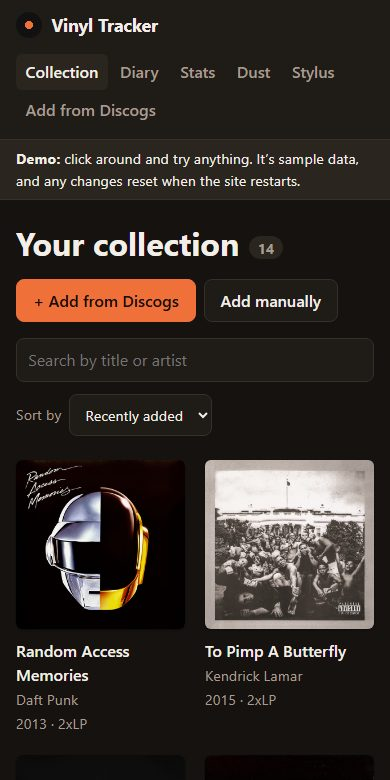
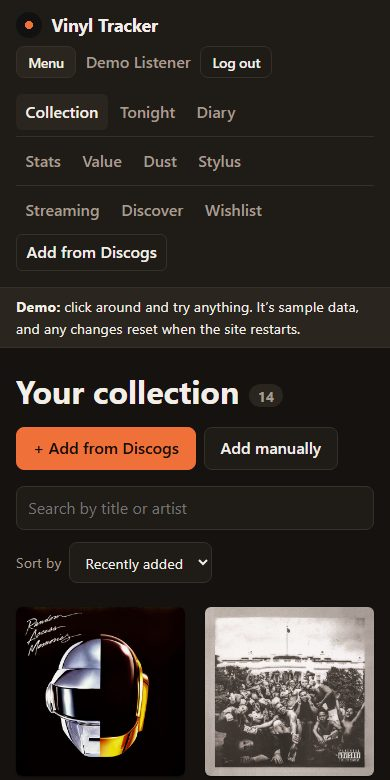
Refreshed the README and added architecture notes (finishes M18)
- Rewrote the README's introduction and feature list around
  everything the app does now
- Added an animated tour and new screenshots of the newer pages
- Added docs/ARCHITECTURE.md: how the parts fit together, the main
  design decisions and what they cost, with diagrams
- Updated the test numbers and credited Last.fm alongside Discogs
- Brought the project notes up to date

diff --git a/README.md b/README.md
@@ -2,41 +2,59 @@
 
 [![CI](https://github.com/danielcoria/vinyl-tracker/actions/workflows/ci.yml/badge.svg)](https://github.com/danielcoria/vinyl-tracker/actions/workflows/ci.yml)
 
-**A diary for your record collection.** Track the vinyl you own, log what you play side by side, and see your listening stats, the records gathering dust on your shelf, and how worn your turntable's stylus is.
+**A diary for your record collection: a Letterboxd for physical music.** Streaming services remember everything you play; nothing remembers what goes on the turntable. Vinyl Tracker does. Track the records you own, log what you play one side at a time, rate and review it, and get things only this data can give you: what's gathering dust, how worn your stylus is, what to play tonight, what you stream but don't own, and what the shelf is worth.
 
 ### 🔗 Live demo: [vinyl-tracker-qu7q.onrender.com](https://vinyl-tracker-qu7q.onrender.com)
 
-Click **Try the demo** on the login page to open a shared demo account filled with 14 sample albums and about six months of listening, so every page has something to show. Try anything; it resets to the sample data whenever the server restarts. You can also create your own account. To see a public profile without logging in, open [/u/demo](https://vinyl-tracker-qu7q.onrender.com/u/demo).
+Click **Try the demo** on the login page to open a shared demo account filled with 14 sample albums, about six months of listening, ratings, reviews and a price history, so every page has something to show. Try anything; it resets to the sample data whenever the server restarts. You can also create your own account. To see a public profile without logging in, open [/u/demo](https://vinyl-tracker-qu7q.onrender.com/u/demo).
 
 > **Heads-up:** the demo runs on a free server. After 15 minutes without visitors it sleeps, and the next visit takes about a minute. After that it's fast.
 
-![The collection page: a grid of album covers](docs/screenshots/collection.jpg)
+![A tour of the app: the collection, logging a play, tonight's picks, stats, value, streaming vs. shelf, recommendations and a public profile](docs/screenshots/tour.gif)
 
 ## What it does
 
-- **Accounts.** Sign up with a username and password; everyone gets their own private collection, diary, stats and stylus.
-- **Public profiles.** Each account has a page at `/u/username` with its shelf, most-played records and artists, recent plays, and a "year in records" recap for every year. Private until its owner turns it on; notes and record conditions are never shown.
-- **Ratings and reviews.** Rate records from half a star to five and write a review; rate individual listens in the diary. Sort the collection by rating, see how the ratings are spread, and share reviews on the public profile (private notes are never shared).
-- **"What should I play tonight?"** Say how much time there is, a genre and a mood, and get three picks from the shelf with the reasons: "Never played", "Side A fits your 30 minutes". One click logs the play.
-- **Streaming vs. shelf.** Connect a Last.fm username to see the albums streamed most but not owned on vinyl ("streamed 412 times, from $20.98 on vinyl"), with live Discogs prices, and keep a wishlist. The demo uses sample streaming data.
-- **Recommendations.** A Discover page suggests albums by artists similar to the ones on the shelf, weighted by what is owned, played and rated most, and explains each one: "Because you own Miles Davis and John Coltrane". With vinyl prices and one-click wishlisting.
-- **Collection value over time.** The server looks up what each record sells for on Discogs about once a day and keeps every price, so a chart shows the collection's value over time, how prices have moved, and the records from most to least valuable.
+**Your records**
 
 - **Collection.** Search Discogs and add the exact pressing you own in one click (cover, label, catalog number, tracklist, genres), or add records by hand. Search and sort your shelf.
 - **Listening diary.** Log each play by side: tick the sides you played (A, B, C…), and the length fills itself in from the tracklist. Every play lands in a diary, grouped by day.
+- **Ratings and reviews.** Rate records from half a star to five and write a review; rate individual listens in the diary. Private notes stay private.
+- **"What should I play tonight?"** Say how much time there is, a genre and a mood, and get three picks from the shelf with the reasons: "Never played", "Side A fits your 30 minutes". One click logs the play.
+
+**Insights**
+
 - **Stats.** Most-listened artists and records, plus a chart of how your listening moves between genres month by month. Ranked by listening time, so one side counts for less than a whole double album.
+- **Collection value over time.** The server looks up what each record sells for on Discogs about once a day and keeps every price, so a chart shows the collection's value over time, how prices have moved, and the records from most to least valuable.
 - **Dust report.** Records you haven't played in a while (you choose how long), and ones you've never played. "Pick one for me" opens a random forgotten record.
 - **Stylus wear tracker.** Turntable styluses wear out after a few hundred to a thousand-plus hours. Your logged plays add up against the stylus's rated lifespan, and a warning appears when it's time to replace it.
 
+**Finding more**
+
+- **Streaming vs. shelf.** Connect a Last.fm username to see the albums you stream most but don't own on vinyl ("streamed 412 times, from $20.98 on vinyl"), with live Discogs prices. Owning a different edition is shown separately, because collectors may want both.
+- **Recommendations.** A Discover page suggests albums by artists similar to the ones on your shelf, weighted by what you own, play and rate most, and explains each one: "Because you own Miles Davis and John Coltrane".
+- **Wishlist.** Save albums from either page, with today's vinyl price beside each.
+
+**Sharing**
+
+- **Accounts.** Sign up with a username and password; everyone gets their own private collection, diary, stats and stylus.
+- **Public profiles.** Each account has a page at `/u/username` with its shelf, most-played records and artists, reviews, recent plays, and a "year in records" recap for every year. Private until its owner turns it on; notes and record conditions are never shown.
+
 ## Screenshots
 
-| Logging a play, side by side                                                                | Listening stats                                                              |
-| ------------------------------------------------------------------------------------------- | ---------------------------------------------------------------------------- |
-| ![Logging side A of Kind of Blue](docs/screenshots/log-a-play.jpg)                          | ![Most-listened artists and records](docs/screenshots/stats.jpg)             |
-| **Genres by month**                                                                         | **Dust report**                                                              |
-| ![A stacked chart of listening time per genre per month](docs/screenshots/genres-chart.jpg) | ![Records gathering dust and never played](docs/screenshots/dust-report.jpg) |
-| **Stylus wear**                                                                             | **On a phone, in dark mode**                                                 |
-| ![The stylus wear meter](docs/screenshots/stylus.jpg)                                       | ![The collection on a phone in dark mode](docs/screenshots/phone-dark.jpg)   |
+|                                                                                                     |                                                                                                |
+| --------------------------------------------------------------------------------------------------- | ---------------------------------------------------------------------------------------------- |
+| **The collection**                                                                                  | **A record: rating, review, and logging a play by side**                                       |
+| ![A grid of album covers with star ratings](docs/screenshots/collection.jpg)                        | ![Kind of Blue with its rating, review and the log-a-play panel](docs/screenshots/record.jpg)  |
+| **What should I play tonight?**                                                                     | **Listening stats**                                                                            |
+| ![Three picks for 30 minutes, each with reasons](docs/screenshots/tonight.jpg)                      | ![Most-listened artists and records, genres by month, ratings](docs/screenshots/stats.jpg)     |
+| **Collection value over time**                                                                      | **Streaming vs. shelf**                                                                        |
+| ![The collection's value, a chart over time and records by value](docs/screenshots/value.jpg)       | ![Most-streamed albums not on the shelf, with vinyl prices](docs/screenshots/streaming.jpg)    |
+| **Recommendations**                                                                                 | **A public profile**                                                                           |
+| ![Recommended albums with the reason for each](docs/screenshots/discover.jpg)                       | ![A public profile: most-played, recent plays, reviews](docs/screenshots/profile.jpg)          |
+| **A year in records**                                                                               | **Dust report**                                                                                |
+| ![2026 in records: record of the year and listening by month](docs/screenshots/year-in-records.jpg) | ![Records gathering dust and never played](docs/screenshots/dust-report.jpg)                   |
+| **Stylus wear**                                                                                     | **On a phone, in dark mode**                                                                   |
+| ![The stylus wear meter](docs/screenshots/stylus.jpg)                                               | ![The collection on a phone in dark mode, with the menu open](docs/screenshots/phone-dark.jpg) |
 
 ## How it's built
 
@@ -46,28 +64,31 @@ Click **Try the demo** on the login page to open a shared demo account filled wi
 | Server       | Node.js, Express, TypeScript                                                                            |
 | Database     | SQLite (better-sqlite3) with Drizzle ORM and versioned migrations                                       |
 | Shared rules | Zod schemas used by both the website and the server, so they always agree on what valid data looks like |
-| Outside data | Discogs API (records, covers, tracklists)                                                               |
+| Outside data | Discogs API (records, covers, tracklists, prices) and Last.fm API (streaming history, similar artists)  |
 | Testing      | Vitest, Supertest, React Testing Library, Playwright                                                    |
 | Delivery     | Docker, GitHub Actions, Render                                                                          |
 
 ```
  Browser ──▶ Website (React) ──/api──▶ Server (Express) ──▶ SQLite database
                                             │
-                                            └──▶ Discogs API (token stays on the server)
+                                            ├──▶ Discogs API   (token stays on the server)
+                                            └──▶ Last.fm API   (key stays on the server)
 ```
 
-A few decisions worth mentioning:
+A few decisions worth mentioning (more, with diagrams, in **[docs/ARCHITECTURE.md](docs/ARCHITECTURE.md)**):
 
 - **Accounts are built in, not bolted on.** Passwords are stored as scrypt hashes; logins use an httpOnly, SameSite cookie; every query is scoped to the logged-in account, and tests check that one account can never read or change another's data.
-- **The Discogs token never reaches the browser.** The website only talks to its own server, which talks to Discogs. It stays under Discogs' limit of 60 requests a minute and remembers recent answers.
-- **Derived numbers are never stored.** Play counts, "last played", dust status, stylus wear and stats are all worked out from the diary when asked, so they can't drift out of sync.
-- **Plays are saved by start time and by track,** so plays logged later with a past date still count for the right stylus, and song-level stats or Last.fm scrobbling can be added later without reshaping the data.
+- **Secrets never reach the browser.** The website only talks to its own server, which talks to Discogs and Last.fm. It stays under Discogs' limit of 60 requests a minute and remembers recent answers.
+- **Derived numbers are never stored.** Play counts, "last played", dust status, stylus wear, stats, ratings spread and the collection's value are all worked out from the saved facts when asked, so they can't drift out of sync.
+- **Nothing is random where it can be explained.** Tonight's picks and the recommendations are scored by rules you can read, and each one comes with its reasons.
+- **Public pages share on purpose, not by accident.** A profile is built by copying only shareable fields, and a private profile answers exactly like one that doesn't exist.
 - **Charts are checked for color blindness.** The chart colors were run through a colorblind-safety checker in both light and dark mode, and every chart has a table view.
 
 ## Testing and CI
 
-- **220+ unit and integration tests** cover the server (every API route, against a temporary in-memory database) and the website (screens tested the way a person uses them).
-- **6 end-to-end tests** drive a real Chrome browser through the whole app: adding and editing records, importing from Discogs, logging a play and seeing it in the diary and stats, the dust report and the stylus warning. They run against a fake Discogs and a fresh database every time.
+- **440+ unit and integration tests** cover the server (every API route, against a temporary in-memory database) and the website (screens tested the way a person uses them).
+- **14 end-to-end tests** drive a real Chrome browser through the whole app: signing up, importing from Discogs, logging a play, rating and reviewing, tonight's picks, the wishlist, recommendations, the collection's value, and making a profile public and viewing it as a visitor. They run against a fake Discogs and Last.fm and a fresh database every time.
+- **Outside services are never called in tests.** Discogs and Last.fm answers are saved as files (recorded from the real services), so tests are fast, repeatable and need no keys.
 - **On every push, GitHub Actions** runs formatting, lint, type checks, all tests and the build on Node 22 and 24, the end-to-end tests, and builds and smoke-tests the Docker image (including that data survives a restart).
 - **The live demo only updates after all of those pass.**
 
@@ -150,17 +171,15 @@ client/   the website (React)
 server/   the server (Express) and the database
 shared/   the data rules both sides use
 e2e/      end-to-end browser tests
-docs/     guides: how it works, and how it's deployed
+docs/     guides: how it works, the architecture, and how it's deployed
 ```
 
-New to the code? **[docs/HOW-IT-WORKS.md](docs/HOW-IT-WORKS.md)** walks through every part in plain language. Deployment details are in **[docs/DEPLOY.md](docs/DEPLOY.md)**.
+New to the code? **[docs/HOW-IT-WORKS.md](docs/HOW-IT-WORKS.md)** walks through every part in plain language, **[docs/ARCHITECTURE.md](docs/ARCHITECTURE.md)** explains the design with diagrams, and deployment details are in **[docs/DEPLOY.md](docs/DEPLOY.md)**.
 
 ## What's next
-
-The plan is to grow this into a "Letterboxd for physical music":
 
 - **Scrobbling to Last.fm:** sending vinyl plays logged here to your Last.fm history, so records count alongside streams
 
 ## Credits
 
-Record data and cover images come from [Discogs](https://www.discogs.com).
+Record data, cover images and prices come from [Discogs](https://www.discogs.com). Streaming history and similar artists come from [Last.fm](https://www.last.fm).

diff --git a/CLAUDE.md b/CLAUDE.md
@@ -8,21 +8,18 @@ Portfolio project, so code quality, tests, and a clean commit history matter as 
 
 ## Status
 
-M0–M17 are done: the collection, Discogs import, listening diary, stats, dust report, stylus tracker, end-to-end tests, deployment, accounts, public profiles, ratings and reviews, the "What should I play tonight?" picker, streaming vs. shelf with a wishlist, recommendations, and collection value over time. The public demo is live at https://vinyl-tracker-qu7q.onrender.com (Render free, `DEMO_MODE`, refills itself on every start; visitors click "Try the demo"; deploys automatically after GitHub's checks pass). The next milestone is **M18 (polish)**, then M19 (Last.fm scrobbling). Update this section and the milestone checklist as work lands.
+M0–M18 are done: the collection, Discogs import, listening diary, stats, dust report, stylus tracker, end-to-end tests, deployment, accounts, public profiles, ratings and reviews, the "What should I play tonight?" picker, streaming vs. shelf with a wishlist, recommendations, collection value over time, and the polish pass (grouped menu, login introduction, README tour, architecture notes). The public demo is live at https://vinyl-tracker-qu7q.onrender.com (Render free, `DEMO_MODE`, refills itself on every start; visitors click "Try the demo"; deploys automatically after GitHub's checks pass). The only milestone left is **M19 (Last.fm scrobbling)**, which the owner asked for "later". Update this section and the milestone checklist as work lands.
 
 ## Features
 
-Built or in progress:
+All built (the milestone that added each is in brackets):
 
 - **Collection**: add records manually or import them from Discogs (search, then import), including the tracklist.
 - **Listening log (the diary)**: log a "spin" by side (A, B, C...): when it started, how long, which sides, which tracks. A full play is one click (all sides ticked). Song-level picking may come later; spins already store the tracks they covered.
-
-Planned:
-
-- **Stats**: most-played artists, genres/styles by month.
-- **Dust report**: records you own but haven't played in N days, or never.
-- **Stylus wear tracker**: logged play time against the stylus's rated lifespan.
-- **Accounts**: sign up / log in; every user has their own collection and diary. The app is single-user until then; records will gain a user owner and spins inherit it through their record.
+- **Stats** (M6): most-played artists, genres/styles by month.
+- **Dust report** (M7): records you own but haven't played in N days, or never.
+- **Stylus wear tracker** (M8): logged play time against the stylus's rated lifespan.
+- **Accounts** (M11): sign up / log in; every user has their own collection and diary. Records have a user owner and spins inherit it through their record.
 - **Public profiles** (M12, built): `/u/username` shows the shelf, most-played records and artists, recent plays and a "year in records" per year. Private until the owner turns on `profilePublic`.
 - **Ratings and reviews** (M13, built): a record has a star rating (0.5-5) and a written review; a spin can have its own star rating. Reviews are public with the profile; notes stay private.
 - **"What should I play tonight?"** (M14, built): `/tonight` suggests three records from your own shelf by time available, genre and mood, scored by dust and rating.
@@ -50,8 +47,9 @@ npm workspaces monorepo:
 client/          React app (Vite)
   src/
     api/         typed fetch wrappers + TanStack Query hooks
-    components/  shared UI components
-    features/    one folder per feature: collection/, discogs/, spins/, stats/, dust/, stylus/
+    components/  the page frame (Layout.tsx: header, grouped menu, footer) and page titles
+    features/    one folder per feature: auth/, collection/, discogs/, spins/, ratings/, stats/,
+                 value/, dust/, stylus/, tonight/, streaming/, profiles/
     pages/       route-level components
 server/
   src/
@@ -59,24 +57,26 @@ server/
     index.ts     entry point: loads config, calls listen()
     config.ts    env parsing (Zod), the only place that reads process.env
     paths.ts     SERVER_ROOT / REPO_ROOT; derive every filesystem path from these
-    db/          schema.ts, client.ts (createDb), migrate.ts, seed.ts
+    db/          schema.ts, client.ts (createDb), migrate.ts, seed.ts, demo.ts (public demo data)
     routes/      thin Express routers: parse input, call a service, send the response
-    services/    business logic + SQL queries (stats, dust, stylus live here)
+    services/    business logic + SQL queries (stats, dust, stylus, suggestions, value... live here)
     integrations/ discogs/, lastfm/: HTTP clients, rate limiting, response mapping
-    middleware/  error handler, request validation
+    middleware/  sessions, same-origin check, password lock, error handler, serving the built client
   drizzle/       generated SQL migrations (committed; never edit after commit)
   test/          API tests via Supertest; helpers.ts gives an in-memory app
 shared/          Zod schemas + inferred TS types for API contracts. Ships .ts source (no
                  build step); Vite bundles it for the client, tsup bundles it into server/dist
-e2e/             Playwright specs + fixtures (Discogs mocked)
+e2e/             Playwright specs + fixtures (Discogs and Last.fm faked by one small server)
+docs/            HOW-IT-WORKS.md (plain-language tour), ARCHITECTURE.md (design + diagrams),
+                 DEPLOY.md, screenshots/ (README images and tour.gif)
 .github/workflows/
 ```
 
 ## Data model (SQLite)
 
-Single user, no auth. Timestamps are ISO-8601 UTC strings. Durations are stored in seconds.
+Multi-user (accounts since M11). Timestamps are ISO-8601 UTC strings. Durations are stored in seconds.
 
-Built so far (M2), defined in `server/src/db/schema.ts`:
+Defined in `server/src/db/schema.ts` (the first four tables date from M2; later ones say which milestone):
 
 - `records`: id, discogs_release_id (unique, nullable for manual entries; set only by the server, never from client input), title, year, label, catalog_number, format, cover_image_url, runtime_seconds (summed from the Discogs tracklist and used as the default spin length), media_condition, sleeve_condition (Goldmine grades `M`…`P`, see `CONDITION_GRADES`), notes, added_at, updated_at
 - `artists`: id, discogs_artist_id (unique, nullable), name (unique case-insensitively via an index on `lower(name)`). Artists are found-or-created by name; ones left with no records are deleted.
@@ -120,6 +120,7 @@ Derived values (stylus hours used, last-played date, dust status, stats) are **c
 - **Streaming vs. shelf (M15):** `integrations/lastfm/client.ts` (`LastfmClient implements LastfmSource`; `user.gettopalbums`, 1 h cache, key in `LASTFM_API_KEY`, never sent to the client); `integrations/lastfm/sample.ts` is a stand-in used only when `DEMO_MODE` is on: the demo account's username (`DEMO_LASTFM_USERNAME`) always gets the samples, and without a key every username does; other usernames go to the real client (`isSample(username)` → `sample: true` in the answer, labelled in the UI). Matching in `services/streaming.ts`: `exactKey()` (plain text: no accents, punctuation or leading "The") decides `ownedRecordId` and `wishlistItemId`; `albumKey()` (also strips edition words in brackets or after " - ") only fills `otherEdition: { recordId, title }`, shown as "You own a different edition" with price and wishlist still offered (the owner wants deluxe and regular kept apart: collectors may own both). Prices: `DiscogsClient.searchAlbum` + `getMarketplaceStats`; the client auto-loads only the first 5 (streaming) / 8 (wishlist) and offers "Check price" for the rest, to respect 60 req/min. Last.fm fixtures in `test/fixtures/lastfm/` are hand-written in Last.fm's format (no key was available to record them). E2E: the fake Discogs server also answers as Last.fm at `/2.0/` (`LASTFM_API_URL`).
 - **Recommendations (M16):** `services/recommendations.ts`: `pickKeyArtists()` (per record: 1 + min(spins,5)/5 + (rating ?? 2.5)/5 points to each of its artists; top 6, weight relative to the top) → `lastfm.getSimilarArtists` for each (`allSettled`; partial failures tolerated) → drop owned artists and names that contain an owned artist's name → score = Σ match × key-artist weight → one line of candidates per key artist (by score), front of each line (`perKeyArtist` + 2 spare, where `perKeyArtist` = max(2, ⌈10 / key artists⌉)) looked up with `lastfm.getArtistTopAlbums`: first title not matching `NOT_AN_ALBUM` and not owned in ANY edition (`albumKey`), shown via `stripEdition()` → round-robin: each key artist gets one pick per round (so every key artist is represented, and one with owned/album-less top matches falls through to the next in its line), 10 total, `because[0]` = that turn's key artist. `getSimilarArtists` asks for 30. Up to 6 + ~24 Last.fm requests on a cold cache, all cached 24 h in the client. `LastfmSource.sampleArtists` is true only for the demo stand-in without a key. The fixtures `similar-miles-davis.json`, `artist-top-albums-john-coltrane.json` and `artist-not-found.json` are REAL recorded Last.fm answers (note: "not found" is HTTP 200 with `error: 6`); `top-albums.json` is still hand-written. E2E: the fake Last.fm picks its answer from the `method` parameter.
 - **Collection value (M17):** `services/value.ts`. `snapshotPrices(db, discogs, { userId?, exceptUserId?, limit, now })` prices records with a `discogs_release_id` whose latest snapshot is missing or older than 20 h (never-priced first), one `getMarketplaceStats` each, stopping on Discogs errors (a 404 release gets a null snapshot so it can't block the queue). `index.ts` runs it every 10 min for 15 records (and 30 s after start), skipping the demo user and `NODE_ENV=test`; `POST /api/value/refresh` runs it for the caller (limit 20). `getCollectionValue` walks snapshots in time order carrying each record's last price forward: one history point per UTC day with a snapshot; `movement` only counts records priced on 2+ days (so adding records isn't "growth"); prices not in the most common currency are ignored. Demo: `seedDemoPrices` writes 27 weekly made-up snapshots per record (own seeded PRNG, so plays are unchanged) and the route marks the demo account `sample: true`. Client: lazy `ValuePage` + `features/value/ValueChart.tsx` (Recharts area chart, single series, table view).
+- **Polish (M18):** `components/Layout.tsx` draws the header in two rows: brand + account on top, then the menu from `NAV_GROUPS` ("Your records" / "Insights" / "Find more", each a `role="group"`) plus "Add from Discogs". Add new pages to a group there, and their tab title to `components/page-title.ts` (`titleFor(pathname)`, set by an effect in Layout). Below 46rem the menu is hidden behind a "Menu" button; its open state is "the pathname it was opened on", so navigating closes it without an effect. A "Skip to content" link targets `<main id="main">`. The login page shows `features/auth/AppIntro.tsx` beside the form. `client/public/favicon.svg` + description/Open Graph tags in `index.html`. README images live in `docs/screenshots/`; they were taken with Playwright against the built app in `DEMO_MODE` (1280px wide JPEGs; `tour.gif` = 900×560 frames encoded with `gifenc` in the scratchpad, not a repo dependency). Retake them when a page's look changes. `docs/ARCHITECTURE.md` holds the design notes and Mermaid diagrams; keep it in step with real behavior.
 - **Frontend patterns (M3):** routes are listed in `client/src/App.tsx` (React Router v8, declarative `<Routes>`); pages live in `pages/`, feature pieces in `features/<feature>/`. Data goes through hooks in `api/` (TanStack Query; mutations invalidate `["records", ...]` keys). Forms keep text in state and validate with the shared Zod schema before sending (see `features/collection/form-values.ts`). Show errors with `describeError()`. Page tests render the whole app with `renderApp(route)` from `test/render.tsx` and fake the server with `mockApi()` from `test/fake-api.ts`; `data-testid="location"` shows the current address.
 - **Tests:** every service and route gets Vitest coverage. Server tests use `makeTestApp()` → `{ app, db, user, api }`, where `api.get/post/put/delete` send the test account's login cookie (`addUser()` makes more accounts). Any new data feature needs an isolation test in `test/isolation.test.ts`. API tests run against an in-memory SQLite DB through `app.ts`. Add a Playwright spec when a user-facing flow is completed.
 - **Commits:** solo project, so commit directly to `main` (no feature branches or PRs unless asked). Write messages in plain, simple language with no "you", "your" or "I": a short past-tense title saying what changed (e.g. "Added record delete button"), then a few short bullets in the same style (e.g. "- Added a search box for title and artist"), in everyday words with no jargon. Keep commits small; one milestone may span several.
@@ -220,5 +221,5 @@ Validation errors are 400 `VALIDATION` with `field: message` pairs joined by `; 
 - [x] M15 Streaming vs. shelf with Discogs prices (Last.fm) + wishlist (scrobbling left out)
 - [x] M16 Recommendations based on what you own
 - [x] M17 Collection value over time (scheduled price snapshots)
-- [ ] M18 Polish: README with screenshots/GIF, demo data, architecture notes
+- [x] M18 Polish: README with screenshots/GIF, demo data, architecture notes
 - [ ] M19 Last.fm scrobbling of logged plays (the owner asked for this "later"): needs Last.fm's web-auth flow (callback URL + the API account's shared secret, stored as a server secret), a per-user session key, and one scrobble per track of a spin (only spins with a tracklist; Last.fm rejects timestamps older than about two weeks)

diff --git a/docs/ARCHITECTURE.md b/docs/ARCHITECTURE.md
@@ -1,0 +1,140 @@
+# Architecture
+
+How Vinyl Tracker is put together, and why. For a plain-language tour of every file, see [HOW-IT-WORKS.md](HOW-IT-WORKS.md); for running it online, see [DEPLOY.md](DEPLOY.md).
+
+## The shape of it
+
+One repository, four packages (npm workspaces):
+
+```mermaid
+flowchart LR
+  Browser["Browser"]
+  subgraph repo["vinyl-tracker"]
+    Client["client/<br/>React + Vite"]
+    Shared["shared/<br/>Zod schemas"]
+    Server["server/<br/>Express"]
+    DB[("SQLite")]
+  end
+  Discogs["Discogs API"]
+  Lastfm["Last.fm API"]
+
+  Browser --> Client
+  Client -- "/api (JSON, session cookie)" --> Server
+  Server --> DB
+  Server -- "token, rate limit, cache" --> Discogs
+  Server -- "API key, cache" --> Lastfm
+  Client -. "imports" .-> Shared
+  Server -. "imports" .-> Shared
+```
+
+- **`shared/`** holds one Zod schema per API contract. The server validates requests with it; the client validates responses with the same schema and derives its TypeScript types from it. The two sides can't drift apart without a type error or a failing test.
+- **`client/`** is a single-page React app. Server data lives only in TanStack Query's cache (no copies in component state), organized by feature folder.
+- **`server/`** is an Express app built by a factory, `createApp({ db, discogs, lastfm, ... })`, which takes everything it depends on as arguments. Tests build the same app with an in-memory database and stand-ins for the outside services.
+- **`e2e/`** drives the real client and server in a browser, against a fake Discogs/Last.fm.
+
+In production the server also delivers the built client, so there is one process, one port and one origin.
+
+## Inside the server
+
+Requests pass through fixed layers, each with one job:
+
+```mermaid
+flowchart TB
+  Req["Request"] --> Sec["helmet (security headers)"]
+  Sec --> Lock["password lock (optional, site-wide)"]
+  Lock --> Origin["sameOrigin (blocks cross-site changes)"]
+  Origin --> User["loadUser (session cookie → req.user)"]
+  User --> Public["public routes:<br/>/api/health, /api/auth, /api/profiles"]
+  User --> Gate["requireUser (401 unless logged in)"]
+  Gate --> Routes["routes/ — parse input with Zod, call a service"]
+  Routes --> Services["services/ — business rules and queries"]
+  Services --> Db[("db/ — Drizzle + SQLite")]
+  Services --> Integrations["integrations/ — Discogs, Last.fm"]
+  Routes --> Err["error handler → { error: { code, message } }"]
+```
+
+Rules that keep it honest:
+
+- **Routes never touch the database**, and **only `integrations/` talks to the outside world**. A route parses, calls one service function, and sends the result.
+- **Every service function takes a `userId`** and filters by it. Asking for someone else's record answers 404, never 403, so ids don't reveal what exists. `test/isolation.test.ts` has two accounts trying to reach each other's data through every route.
+- **Errors are values with a code.** Services throw `AppError(status, code, message)`; one handler turns them (and Zod failures) into `{ error: { code, message } }`. The client shows `message` and branches on `code`.
+- **Only `config.ts` reads the environment.** Everything else receives plain values, which is what makes the app factory testable.
+
+## The data model
+
+```mermaid
+erDiagram
+  users ||--o{ sessions : "logs in with"
+  users ||--o{ records : owns
+  users ||--o{ styluses : owns
+  users ||--o{ user_settings : has
+  users ||--o{ wishlist_items : "wishes for"
+  records ||--o{ record_artists : "credited to"
+  artists ||--o{ record_artists : ""
+  records ||--o{ record_tags : "genres / styles"
+  records ||--o{ tracks : "tracklist"
+  records ||--o{ spins : "played as"
+  records ||--o{ price_snapshots : "priced as"
+  spins ||--o{ spin_tracks : covered
+  tracks ||--o{ spin_tracks : ""
+```
+
+- A **spin** is one play: the record, when it _started_, how long, and which sides. `spin_tracks` records the tracks it covered.
+- **Ownership is one hop.** Records and styluses belong to a user; tracks, spins and price snapshots belong to whoever owns their record. Deleting a record cascades.
+- **Spins have no stylus column.** A stylus's wear is the sum of spins whose start time falls between its install and retire dates, so a play logged later with a past date still lands on the right stylus.
+
+## Decisions, and what they cost
+
+**SQLite, synchronously.** One file, no database server, and `better-sqlite3` is synchronous, so services read top to bottom with ordinary transactions. It fits a personal collection (thousands of rows, not millions) and makes tests trivial (`:memory:`). The cost: one writer at a time and one machine. If this ever needed several servers, the service layer is where a different database would plug in.
+
+**Derived values are computed, never stored.** Play counts, last-played dates, dust status, stylus wear, stats, the ratings spread and the collection's value are all worked out from the stored facts when asked. Nothing can drift out of sync, and back-dated or deleted plays are automatically right everywhere. The cost is recomputing on each request, which is negligible at this size; some of the adding-up is done in TypeScript rather than SQL because it is easier to read and test.
+
+**Sessions, not tokens.** A random token in an httpOnly, SameSite=Lax cookie; only its SHA-256 is stored, so a copy of the database can't be replayed as a login. Passwords are scrypt hashes with the parameters stored alongside. State-changing requests must come from the site's own origin. Logging in is rate-limited per address, and a wrong username and a wrong password get the same answer.
+
+**Outside services are treated as unreliable and metered.**
+
+- Secrets stay on the server; the browser only ever calls `/api`.
+- The Discogs client enforces their 60-requests-a-minute limit itself and caches answers (searches for minutes, releases for a day, prices for hours); the Last.fm client caches for an hour to a day.
+- Work that fans out is bounded: a price lookup compares at most three pressings; the pages auto-load only the first few prices and offer "Check price" for the rest; collection prices are refreshed in the background at 15 records per 10 minutes.
+- Their failures become specific error codes, partial failures are tolerated where the result is still useful (recommendations), and nothing is ever written as "no result" when the truth is "couldn't ask".
+
+**Explainable picks.** "What should I play tonight?" and the recommendations are deterministic scoring over data the app already has (dust, ratings, fit, similarity), and every result carries the facts behind it so the page can say why. There is no randomness to debug and nothing to tune in the dark; "Shuffle" just asks again, excluding what was shown.
+
+**Public profiles share by construction.** The profile service builds its answer by copying named, shareable fields; notes, conditions, the stylus and settings are never in the object to begin with, and a test checks the JSON for them. A private profile and a missing username return the identical 404.
+
+**Editions are not the same album.** Matching streamed albums to the shelf uses two keys: an exact one (same album and edition) that counts as "owned", and a looser one (edition labels stripped) that is only shown as "you own a different edition". Collectors may want both.
+
+## Testing
+
+| Layer            | Tool                           | What it proves                                                                                      |
+| ---------------- | ------------------------------ | --------------------------------------------------------------------------------------------------- |
+| Server           | Vitest + Supertest             | Every route and service, through the real app, on an in-memory database                             |
+| Outside services | Recorded fixtures              | The clients parse real Discogs and Last.fm answers; tests never use the network or need keys        |
+| Website          | Vitest + React Testing Library | Whole pages rendered inside the app, used the way a person would, with a fake `/api`                |
+| Whole app        | Playwright                     | Real browser, real server, fresh database, fake Discogs/Last.fm; each test signs up its own account |
+| Isolation        | A dedicated suite              | One account can never read or change another's data                                                 |
+
+Time is injected (`now` parameters) wherever a result depends on it, so tests for dust, stylus wear, suggestions and price history use fixed clocks instead of sleeping.
+
+## Delivery
+
+```mermaid
+flowchart LR
+  Push["git push to main"] --> CI["GitHub Actions"]
+  CI --> A["format, lint, types,<br/>tests, build<br/>(Node 22 and 24)"]
+  CI --> B["end-to-end tests<br/>(Playwright)"]
+  CI --> C["Docker image<br/>build + smoke test"]
+  A & B & C --> Gate{"all green?"}
+  Gate -- yes --> Render["Render redeploys the demo"]
+  Gate -- no --> Stay["the live site stays as it was"]
+```
+
+The Docker smoke test starts the real image, signs up, saves a record, restarts the container and checks the record survived. The public demo runs in `DEMO_MODE`: it seeds itself with sample data on start (deterministically, from a seeded random-number generator) and labels anything that isn't real.
+
+## Known limits
+
+- **No email**, so no password reset and no account recovery.
+- **One currency** per collection value: prices in other currencies are left out rather than converted.
+- **Price history starts when tracking starts**; Discogs offers no past prices.
+- **The free demo host has no persistent disk**, so the demo resets when it sleeps. The Docker image supports a real volume.
+- **Single turntable** assumed for stylus wear.
